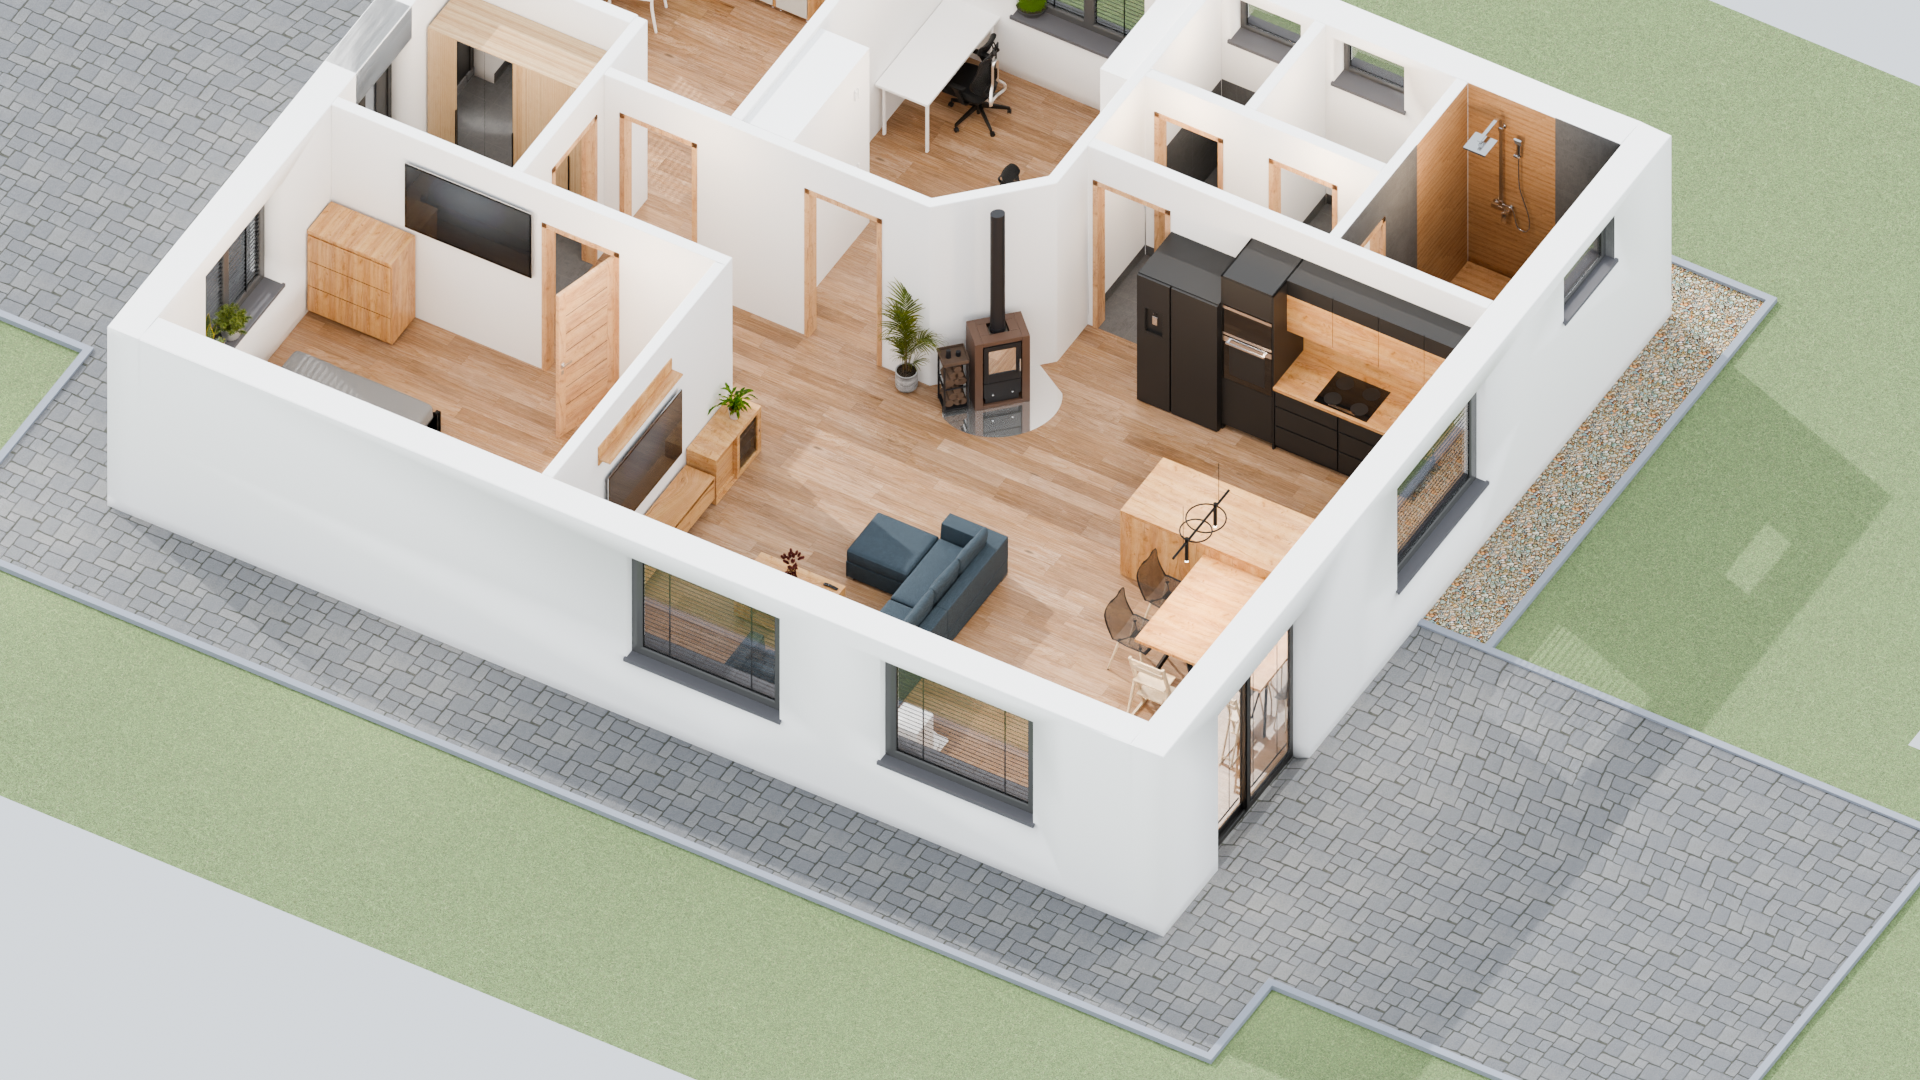
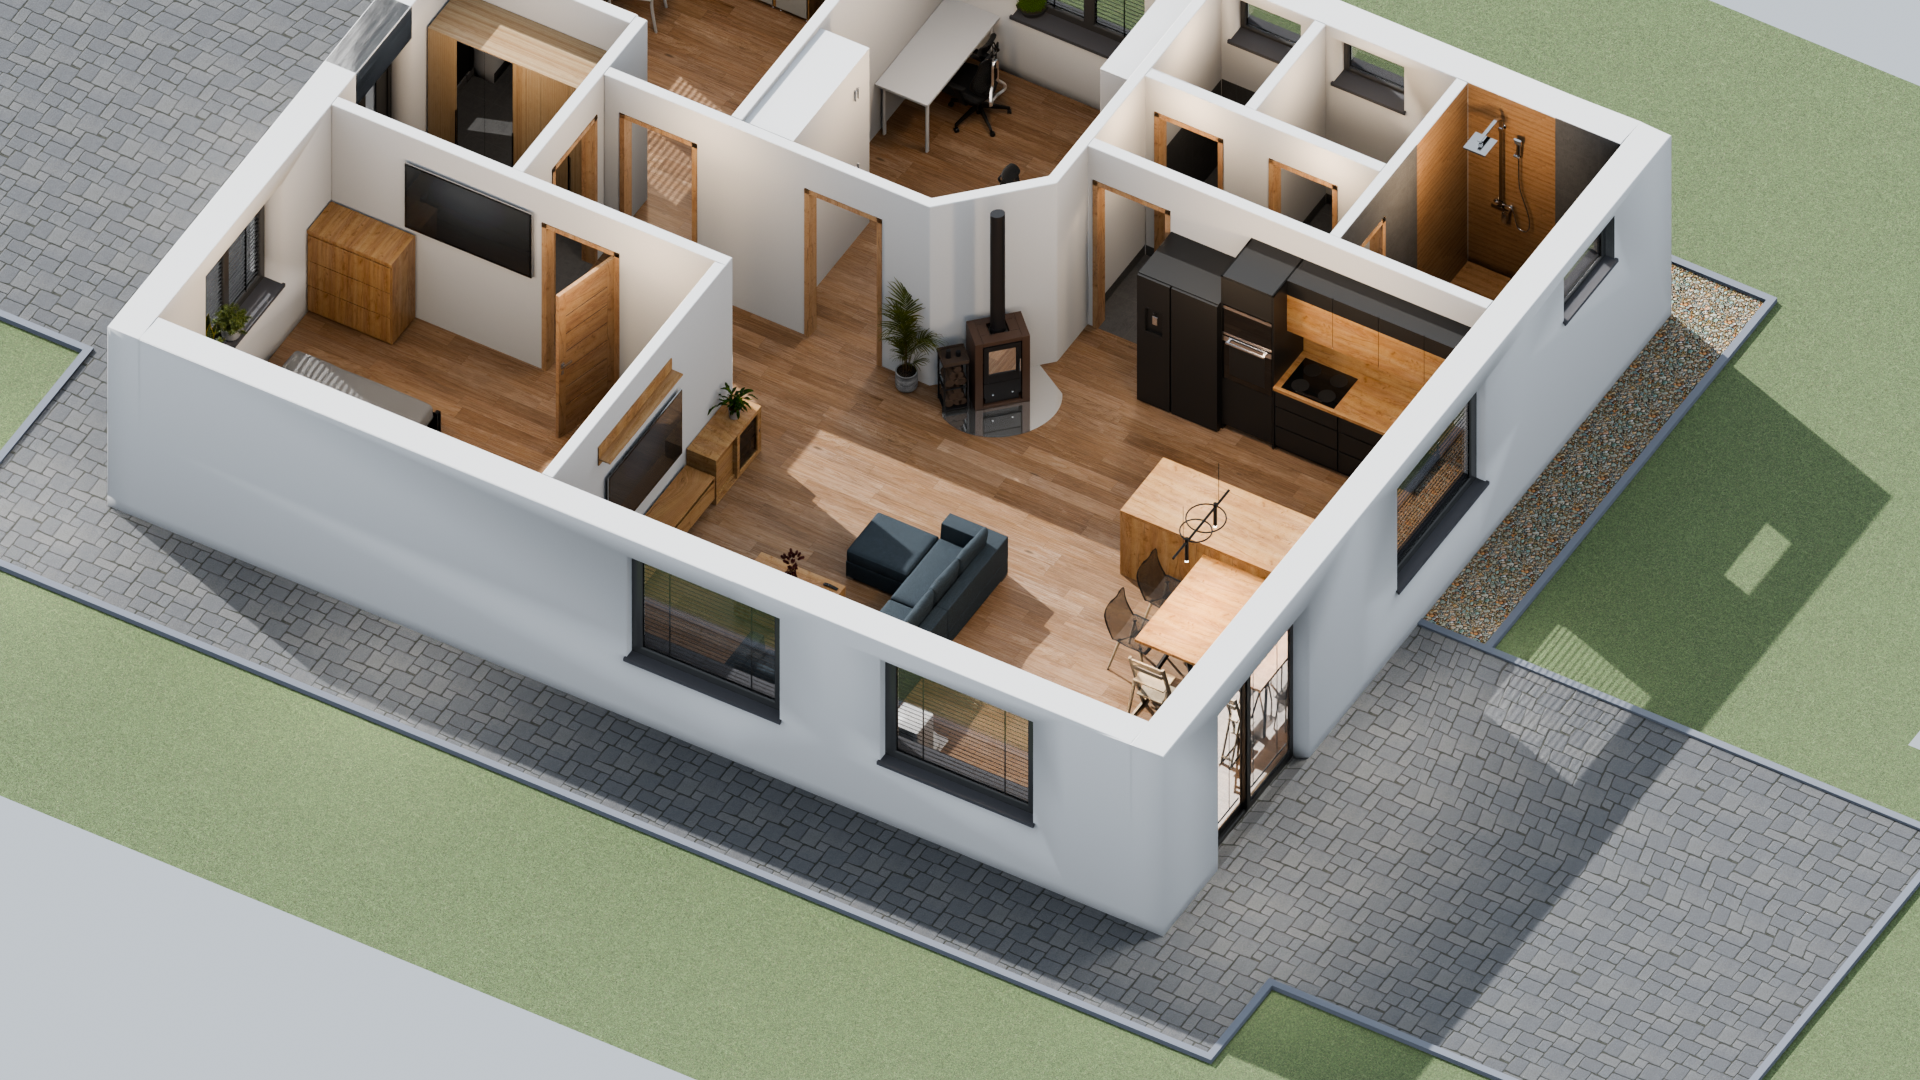
feat(kitchen, lighting): move cooktop to first corpus, align sink into corner, and boost sun contrast for blinds shadows on bed

diff --git a/apply_kitchen_and_lighting_adjustments.py b/apply_kitchen_and_lighting_adjustments.py
@@ -1,0 +1,180 @@
+import bpy
+import bmesh
+from mathutils import Vector
+import os
+import shutil
+
+def apply_kitchen_and_lighting_adjustments():
+    blend_path = r"C:\Users\Vaso\Antigravity\Project blender\dum_pudorys.blend"
+    bpy.ops.wm.open_mainfile(filepath=blend_path)
+    scene = bpy.context.scene
+
+    print(">>> 1. Moving induction hob into the first base corpus (Y: 9.58 - 10.28)...")
+    # Shift along Y by -0.370m to center hob at Y = 9.930m
+    shift_hob_y = -0.370
+    hob_objs = [o for o in bpy.data.objects if o.name.startswith("Induction_") or o.name == "Range_Hood_Mesh"]
+    for o in hob_objs:
+        if o.type == 'MESH':
+            # Shift mesh vertices or object location
+            # If location is (0,0,0), shift vertices
+            if o.location.length < 0.001:
+                bm = bmesh.new()
+                bm.from_mesh(o.data)
+                for v in bm.verts:
+                    v.co.y += shift_hob_y
+                bm.to_mesh(o.data)
+                o.data.update()
+                bm.free()
+            else:
+                o.location.y += shift_hob_y
+            print(f"  Shifted {o.name} by dy={shift_hob_y:.3f}")
+
+    print(">>> 2. Moving kitchen sink and faucet into the corner of the corpus (X: 3.65 - 4.21)...")
+    shift_sink_x = -0.090
+    sink_objs = [o for o in bpy.data.objects if o.name.startswith(("Sink_", "Faucet_"))]
+    for o in sink_objs:
+        if o.type == 'MESH':
+            if o.location.length < 0.001:
+                bm = bmesh.new()
+                bm.from_mesh(o.data)
+                for v in bm.verts:
+                    v.co.x += shift_sink_x
+                bm.to_mesh(o.data)
+                o.data.update()
+                bm.free()
+            else:
+                o.location.x += shift_sink_x
+    print(f"  Shifted {len(sink_objs)} sink and faucet objects by dx={shift_sink_x:.3f}")
+
+    print(">>> 3. Adjusting countertop meshes to match new sink corner position...")
+    # Countertop_North_Left: X: [3.620, 3.650]
+    cn_left = bpy.data.objects.get("Countertop_North_Left")
+    if cn_left:
+        bm = bmesh.new()
+        bm.from_mesh(cn_left.data)
+        for v in bm.verts:
+            if v.co.x > 3.65:
+                v.co.x = 3.65
+        bm.to_mesh(cn_left.data)
+        cn_left.data.update()
+        bm.free()
+        print("  Adjusted Countertop_North_Left")
+
+    # Countertop_North_Back: shift X by shift_sink_x
+    cn_back = bpy.data.objects.get("Countertop_North_Back")
+    if cn_back:
+        bm = bmesh.new()
+        bm.from_mesh(cn_back.data)
+        for v in bm.verts:
+            v.co.x += shift_sink_x
+        bm.to_mesh(cn_back.data)
+        cn_back.data.update()
+        bm.free()
+        print("  Adjusted Countertop_North_Back")
+
+    # Countertop_North_Front: shift X by shift_sink_x
+    cn_front = bpy.data.objects.get("Countertop_North_Front")
+    if cn_front:
+        bm = bmesh.new()
+        bm.from_mesh(cn_front.data)
+        for v in bm.verts:
+            v.co.x += shift_sink_x
+        bm.to_mesh(cn_front.data)
+        cn_front.data.update()
+        bm.free()
+        print("  Adjusted Countertop_North_Front")
+
+    # Countertop_North_Right: extend left edge from 4.300 to 4.210
+    cn_right = bpy.data.objects.get("Countertop_North_Right")
+    if cn_right:
+        bm = bmesh.new()
+        bm.from_mesh(cn_right.data)
+        for v in bm.verts:
+            if v.co.x < 4.25:
+                v.co.x = 4.210
+        bm.to_mesh(cn_right.data)
+        cn_right.data.update()
+        bm.free()
+        print("  Adjusted Countertop_North_Right")
+
+    print(">>> 4. Fine-tuning Sun and World for high contrast blind shadows on bed...")
+    sun = bpy.data.objects.get("Sun_Fill")
+    if sun:
+        sun.data.energy = 5.8
+        sun.data.color = (1.0, 0.98, 0.95)
+        sun.data.use_shadow = True
+
+    world = scene.world
+    if world and world.node_tree:
+        bg = world.node_tree.nodes.get("Background")
+        if bg:
+            bg.inputs["Color"].default_value = (0.82, 0.90, 1.0, 1.0)
+            bg.inputs["Strength"].default_value = 0.85
+
+    scene.cycles.use_fast_gi = True
+    scene.cycles.fast_gi_method = 'REPLACE'
+    scene.cycles.ao_bounces = 2
+
+    # Ensure camera is Isometric_Camera and save file
+    iso_cam = bpy.data.objects.get("Isometric_Camera")
+    if iso_cam:
+        scene.camera = iso_cam
+
+    bpy.ops.wm.save_mainfile()
+    print(">>> dum_pudorys.blend successfully updated and saved!")
+
+    # Render closeups
+    artifact_dir = r"C:\Users\Vaso\.gemini\antigravity-cli\brain\f3c5abf3-eea0-4d65-81b3-b4401695e1c6"
+    scene.render.engine = 'CYCLES'
+    try:
+        scene.cycles.device = 'GPU'
+    except:
+        pass
+    scene.cycles.samples = 48
+    scene.render.resolution_x = 1920
+    scene.render.resolution_y = 1080
+
+    # 1. Close-up of kitchen sink and cooktop from Camera_Drez_Corner
+    drez_cam = bpy.data.objects.get("Camera_Drez_Corner")
+    if drez_cam:
+        scene.camera = drez_cam
+        drez_out = os.path.join(artifact_dir, "render_kitchen_sink_and_hob.png")
+        scene.render.filepath = drez_out
+        print(f">>> Rendering kitchen closeup to {drez_out}...")
+        bpy.ops.render.render(write_still=True)
+
+    # 2. Re-render master overview floorplan
+    if iso_cam:
+        scene.camera = iso_cam
+        master_out = r"C:\Users\Vaso\Antigravity\Project blender\dum_pudorys_overview.png"
+        scene.render.filepath = master_out
+        print(f">>> Rendering master overview floorplan...")
+        bpy.ops.render.render(write_still=True)
+        shutil.copy2(master_out, os.path.join(artifact_dir, "dum_pudorys_overview_updated.png"))
+
+        # Pure daylight view (interior lights OFF)
+        orig_nrgs = {}
+        for obj in bpy.data.objects:
+            if obj.type == 'LIGHT' and obj.name != 'Sun_Fill':
+                orig_nrgs[obj.name] = obj.data.energy
+                obj.data.energy = 0.0
+
+        daylight_out = os.path.join(artifact_dir, "dum_pudorys_daylight_final.png")
+        scene.render.filepath = daylight_out
+        print(f">>> Rendering pure daylight floorplan...")
+        bpy.ops.render.render(write_still=True)
+
+        # Restore light energies
+        for name, nrg in orig_nrgs.items():
+            o = bpy.data.objects.get(name)
+            if o and 'tv' not in o.name.lower():
+                o.data.energy = nrg
+
+    # Save final blend file
+    if iso_cam:
+        scene.camera = iso_cam
+    bpy.ops.wm.save_mainfile()
+    print(">>> All updates and renders completed successfully!")
+
+if __name__ == '__main__':
+    apply_kitchen_and_lighting_adjustments()

diff --git a/fix_countertop_gap.py b/fix_countertop_gap.py
@@ -1,0 +1,79 @@
+import bpy
+import bmesh
+import shutil
+import os
+
+def fix_gap_and_render():
+    blend_path = r"C:\Users\Vaso\Antigravity\Project blender\dum_pudorys.blend"
+    bpy.ops.wm.open_mainfile(filepath=blend_path)
+    scene = bpy.context.scene
+
+    print(">>> Fixing Countertop_North_Right gap...")
+    cn_right = bpy.data.objects.get("Countertop_North_Right")
+    if cn_right:
+        bm = bmesh.new()
+        bm.from_mesh(cn_right.data)
+        count = 0
+        for v in bm.verts:
+            if v.co.x < 4.35:
+                v.co.x = 4.210
+                count += 1
+        bm.to_mesh(cn_right.data)
+        cn_right.data.update()
+        bm.free()
+        print(f"  Updated {count} vertices of Countertop_North_Right to X=4.210")
+
+    # Ensure camera is Camera_Drez_Corner for the closeup verification render
+    artifact_dir = r"C:\Users\Vaso\.gemini\antigravity-cli\brain\f3c5abf3-eea0-4d65-81b3-b4401695e1c6"
+    scene.render.engine = 'CYCLES'
+    try:
+        scene.cycles.device = 'GPU'
+    except:
+        pass
+    scene.cycles.samples = 48
+    scene.render.resolution_x = 1920
+    scene.render.resolution_y = 1080
+
+    drez_cam = bpy.data.objects.get("Camera_Drez_Corner")
+    if drez_cam:
+        scene.camera = drez_cam
+        drez_out = os.path.join(artifact_dir, "render_kitchen_sink_and_hob.png")
+        scene.render.filepath = drez_out
+        print(">>> Re-rendering kitchen closeup...")
+        bpy.ops.render.render(write_still=True)
+
+    # Now set back to Isometric_Camera for master floorplan
+    iso_cam = bpy.data.objects.get("Isometric_Camera")
+    if iso_cam:
+        scene.camera = iso_cam
+        master_out = r"C:\Users\Vaso\Antigravity\Project blender\dum_pudorys_overview.png"
+        scene.render.filepath = master_out
+        print(">>> Re-rendering master overview floorplan...")
+        bpy.ops.render.render(write_still=True)
+        shutil.copy2(master_out, os.path.join(artifact_dir, "dum_pudorys_overview_fixed.png"))
+
+        # Re-render pure daylight floorplan
+        orig_nrgs = {}
+        for obj in bpy.data.objects:
+            if obj.type == 'LIGHT' and obj.name != 'Sun_Fill':
+                orig_nrgs[obj.name] = obj.data.energy
+                obj.data.energy = 0.0
+
+        daylight_out = os.path.join(artifact_dir, "dum_pudorys_daylight_final.png")
+        scene.render.filepath = daylight_out
+        print(">>> Re-rendering pure daylight floorplan...")
+        bpy.ops.render.render(write_still=True)
+
+        for name, nrg in orig_nrgs.items():
+            o = bpy.data.objects.get(name)
+            if o and 'tv' not in o.name.lower():
+                o.data.energy = nrg
+
+    # Save final blend file
+    if iso_cam:
+        scene.camera = iso_cam
+    bpy.ops.wm.save_mainfile()
+    print(">>> dum_pudorys.blend cleanly finalized and saved!")
+
+if __name__ == '__main__':
+    fix_gap_and_render()
